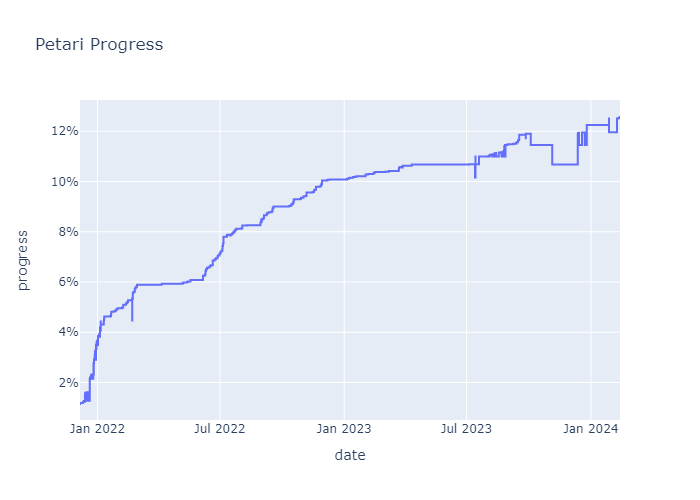
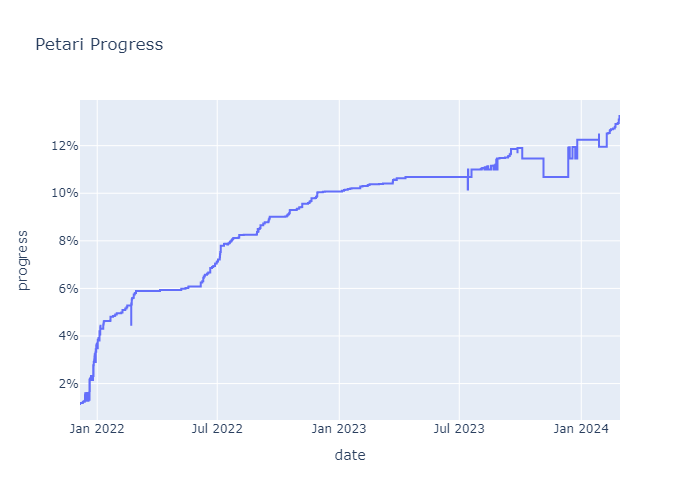
`SkeletalFishGuardHolder.o` 100%

diff --git a/source/Game/Boss/SkeletalFishGuardHolder.cpp b/source/Game/Boss/SkeletalFishGuardHolder.cpp
@@ -1,0 +1,181 @@
+#include "Game/Boss/SkeletalFishGuardHolder.hpp"
+#include "Game/Boss/SkeletalFishBoss.hpp"
+#include "Game/Boss/SkeletalFishBossFunc.hpp"
+#include "Game/Boss/SkeletalFishBossInfo.hpp"
+#include "Game/Boss/SkeletalFishGuard.hpp"
+#include "Game/Boss/SkeletalFishBossRail.hpp"
+
+SkeletalFishGuardHolder::SkeletalFishGuardHolder(SkeletalFishBoss *pBoss, s32 numGuards, const char *pName) : NameObj(pName) {
+    mFishBoss = pBoss;
+    mBossRail = nullptr;
+    mNumGuards = numGuards;
+    mGuards = nullptr;
+    _1C = 0.0f;
+    _20 = 1;
+    createAndInitGuard();
+}
+
+void SkeletalFishGuardHolder::movement() {
+    if (_20) {
+        checkRailChangedAndReset();
+        s32 appearableGuard = countAppearableGuard();
+        if (appearableGuard > 0) {
+            checkDistanceAndAppear(appearableGuard);
+        }
+    }
+}
+
+void SkeletalFishGuardHolder::forceAppearAll() {
+    SkeletalFishGuard* guard;  //
+    SkeletalFishBossInfo::LevelStatus* lvl;
+    s32 guardWaitLvlId;  // r28
+    s32 appearableGuard = countAppearableGuard();  // r27
+    s32 i;  // r26
+
+    for (i = 0; i < mNumGuards; i++) {
+        if (MR::isDead(mGuards[i])) {
+            guardWaitLvlId = mFishBoss->getLevelStatus()->mStatusArray[i].mGuardWaitLevelID;
+            lvl = mFishBoss->getLevelStatus();
+            guard = mGuards[i];
+            guard->_94.set(lvl->mStatusArray[i].mGuardPosLevel);
+            guard->_A0 = guardWaitLvlId;
+            mGuards[i]->appearForce();
+
+            if (--appearableGuard <= 0) {
+                break;
+            }
+        }
+    }
+}
+
+void SkeletalFishGuardHolder::forceKillAll() {
+    for (s32 i = 0; i < mNumGuards; i++) {
+        mGuards[i]->makeActorDead();
+    }
+}
+
+void SkeletalFishGuardHolder::killAll() {
+    for (s32 i = 0; i < mNumGuards; i++) {
+        mGuards[i]->killNaturally();
+    }
+}
+
+void SkeletalFishGuardHolder::notifyAttack(SkeletalFishGuard *pGuard) {
+    for (s32 i = 0; i < mNumGuards; i++) {
+        SkeletalFishGuard* guard = mGuards[i];
+
+        if (guard != pGuard) {
+            guard->waitAttack(120);
+        }
+    }
+}
+
+void SkeletalFishGuardHolder::invalidate() {
+    _20 = 0;
+}
+
+void SkeletalFishGuardHolder::validate() {
+    if (!_20) {
+        _20 = 1;
+        _1C = MR::getRailCoord(mFishBoss->getCurrentBossRail());
+    }
+}
+
+void SkeletalFishGuardHolder::checkRailChangedAndReset() {
+    if (mBossRail != mFishBoss->getCurrentBossRail()) {
+        _1C = MR::getRailCoord(mFishBoss->getCurrentBossRail());
+        mBossRail = (SkeletalFishBossRail*)mFishBoss->getCurrentBossRail();
+    }
+}
+
+s32 SkeletalFishGuardHolder::countAppearableGuard() const {
+    SkeletalFishBossInfo::LevelStatus* lvl = mFishBoss->mBossInfo->getLevelStatus(mFishBoss->_110);
+    s32 guardCount = lvl->mGuardAppearNumLevel - countGuardAlive();
+
+    if (guardCount < 0) {
+        guardCount = 0;
+    }
+
+    return guardCount;
+}
+
+s32 SkeletalFishGuardHolder::countGuardAlive() const {
+    s32 aliveGuard = 0;
+
+    for (s32 i = 0; i < mNumGuards; i++) {
+        if (!MR::isDead(mGuards[i])) {
+            aliveGuard++;
+        }
+    }
+
+    return aliveGuard;
+}
+
+void SkeletalFishGuardHolder::checkDistanceAndAppear(s32 numGuards) {
+    f32 len, v7, v9;
+    
+    f32 guardOffsLvl = mFishBoss->mBossInfo->getLevelStatus(mFishBoss->_110)->mGuardOffsLevel;
+    f32 coord = MR::getRailCoord(mBossRail);
+
+    if (coord < _1C) {
+        coord = coord + MR::getRailTotalLength(mBossRail);
+    }
+
+    for (s32 i = 0; i < MR::getRailPointNum(mBossRail); i++) {
+        if (mBossRail->isFillUpPoint(i)) {
+            v7 = (MR::getRailPointCoord(mBossRail, i) - guardOffsLvl);
+            len = MR::getRailTotalLength(mBossRail);
+            v9 = MR::modAndSubtract(v7, len, 0.0f);
+
+            if (v9 < _1C) {
+                v9 = (v9 + (MR::getRailTotalLength(mBossRail)));
+            }
+
+            if (v9 < coord) {
+                appearGuard(numGuards, i);
+                break;
+            }
+        }
+    }
+
+    _1C = MR::getRailCoord(mBossRail);
+}
+
+void SkeletalFishGuardHolder::appearGuard(s32 numGuards, s32 startGuard) {
+    SkeletalFishGuard* guard;
+    SkeletalFishBossInfo::LevelStatus* level;
+    s32 pos = mBossRail->getFillUpNamePos(startGuard);
+    s32 waitID;
+
+    TVec3f guardPos;
+    if (pos >= 0 && SkeletalFishBossFunc::copyGuardPos(&guardPos, pos)) {
+        for (s32 i = 0; i < mNumGuards; i++) {
+            if (MR::isDead(mGuards[i])) {
+                mGuards[i]->mPosition.set(guardPos);
+                waitID = mFishBoss->getLevelStatus()->mStatusArray[i].mGuardWaitLevelID;
+                level = mFishBoss->getLevelStatus();
+                guard = mGuards[i];
+                guard->_94.set(level->mStatusArray[i].mGuardPosLevel);
+                guard->_A0 = waitID;
+                mGuards[i]->appearNaturally();
+
+                if (--numGuards <= 0) {
+                    break;
+                }
+            }
+        }
+    }
+}
+
+SkeletalFishGuardHolder::~SkeletalFishGuardHolder() {
+
+}
+
+void SkeletalFishGuardHolder::createAndInitGuard() {
+    mGuards = new SkeletalFishGuard*[mNumGuards];
+
+    for (s32 i = 0; i < mNumGuards; i++) {
+        mGuards[i] = new SkeletalFishGuard(mFishBoss, "スカルシャークガード");
+        mGuards[i]->initWithoutIter();
+    }
+}

diff --git a/include/Game/Boss/SkeletalFishBoss.hpp b/include/Game/Boss/SkeletalFishBoss.hpp
@@ -1,5 +1,6 @@
 #pragma once
 
+#include "Game/Boss/SkeletalFishBossInfo.hpp"
 #include "Game/Camera/CameraTargetArg.hpp"
 #include "Game/LiveActor/LiveActor.hpp"
 #include "Game/LiveActor/PartsModel.hpp"
@@ -101,6 +102,10 @@ public:
     void startDeadDemo();
     void endBreakDemo();
     bool isEnableToBeDamaged() const;
+
+    SkeletalFishBossInfo::LevelStatus* getLevelStatus() const {
+        return mBossInfo->getLevelStatus(_110);
+    }
 
     JointController* mControllers[0xD];
     s32* mJointIndicies;                            // _C0

diff --git a/include/Game/Util/MathUtil.hpp b/include/Game/Util/MathUtil.hpp
@@ -245,6 +245,11 @@ namespace MR {
         return a4 + mod;
     }
 
+    inline f32 modAndSubtract_2(f32 a1, f32 a2, f32 a3) {
+        f32 mod = fmod((a3 + (a1 - a2)), a3);
+        return a3 + mod;
+    }
+
     inline f32 add(f32 lhs, f32 rhs) {
         return lhs + rhs;
     }

diff --git a/include/Game/Boss/SkeletalFishGuard.hpp b/include/Game/Boss/SkeletalFishGuard.hpp
@@ -46,9 +46,7 @@ public:
 
     u32 _8C;
     SkeletalFishBoss* mFishBoss;                    // _90
-    f32 _94;
-    f32 _98;
-    f32 _9C;
+    TVec3f _94;
     u32 _A0;
     TVec3f _A4;
     f32 _B0;

diff --git a/docs/lib/Boss/SkeletalFishGuardHolder.md b/docs/lib/Boss/SkeletalFishGuardHolder.md
@@ -5,22 +5,22 @@
 | :white_check_mark: | Function is completed. 
 
 
-# 0 / 15 Completed -- (0.0%)
+# 15 / 15 Completed -- (100.0%)
 # SkeletalFishGuardHolder.o
 | Symbol | Decompiled? |
 | ------------- | ------------- |
-| `__ct__23SkeletalFishGuardHolderFP16SkeletalFishBosslPCc` | :x: |
-| `movement__23SkeletalFishGuardHolderFv` | :x: |
-| `forceAppearAll__23SkeletalFishGuardHolderFv` | :x: |
-| `forceKillAll__23SkeletalFishGuardHolderFv` | :x: |
-| `killAll__23SkeletalFishGuardHolderFv` | :x: |
-| `notifyAttack__23SkeletalFishGuardHolderFP17SkeletalFishGuard` | :x: |
-| `invalidate__23SkeletalFishGuardHolderFv` | :x: |
-| `validate__23SkeletalFishGuardHolderFv` | :x: |
-| `checkRailChangedAndReset__23SkeletalFishGuardHolderFv` | :x: |
-| `countAppearableGuard__23SkeletalFishGuardHolderCFv` | :x: |
-| `countGuardAlive__23SkeletalFishGuardHolderCFv` | :x: |
-| `checkDistanceAndAppear__23SkeletalFishGuardHolderFl` | :x: |
-| `appearGuard__23SkeletalFishGuardHolderFll` | :x: |
-| `__dt__23SkeletalFishGuardHolderFv` | :x: |
-| `createAndInitGuard__23SkeletalFishGuardHolderFv` | :x: |
+| `__ct__23SkeletalFishGuardHolderFP16SkeletalFishBosslPCc` | :white_check_mark: |
+| `movement__23SkeletalFishGuardHolderFv` | :white_check_mark: |
+| `forceAppearAll__23SkeletalFishGuardHolderFv` | :white_check_mark: |
+| `forceKillAll__23SkeletalFishGuardHolderFv` | :white_check_mark: |
+| `killAll__23SkeletalFishGuardHolderFv` | :white_check_mark: |
+| `notifyAttack__23SkeletalFishGuardHolderFP17SkeletalFishGuard` | :white_check_mark: |
+| `invalidate__23SkeletalFishGuardHolderFv` | :white_check_mark: |
+| `validate__23SkeletalFishGuardHolderFv` | :white_check_mark: |
+| `checkRailChangedAndReset__23SkeletalFishGuardHolderFv` | :white_check_mark: |
+| `countAppearableGuard__23SkeletalFishGuardHolderCFv` | :white_check_mark: |
+| `countGuardAlive__23SkeletalFishGuardHolderCFv` | :white_check_mark: |
+| `checkDistanceAndAppear__23SkeletalFishGuardHolderFl` | :white_check_mark: |
+| `appearGuard__23SkeletalFishGuardHolderFll` | :white_check_mark: |
+| `__dt__23SkeletalFishGuardHolderFv` | :white_check_mark: |
+| `createAndInitGuard__23SkeletalFishGuardHolderFv` | :white_check_mark: |

diff --git a/docs/lib/Boss.md b/docs/lib/Boss.md
@@ -138,7 +138,7 @@
 | [SkeletalFishBossRail.o](https://github.com/shibbo/Petari/blob/master/docs/lib/Boss/SkeletalFishBossRail.md) | 100.0% | 9 / 9 | 100.0% | :white_check_mark: 
 | [SkeletalFishBossRailHolder.o](https://github.com/shibbo/Petari/blob/master/docs/lib/Boss/SkeletalFishBossRailHolder.md) | 100.0% | 7 / 7 | 100.0% | :white_check_mark: 
 | [SkeletalFishGuard.o](https://github.com/shibbo/Petari/blob/master/docs/lib/Boss/SkeletalFishGuard.md) | 0.0% | 0 / 62 | 0.0% | :x: 
-| [SkeletalFishGuardHolder.o](https://github.com/shibbo/Petari/blob/master/docs/lib/Boss/SkeletalFishGuardHolder.md) | 0.0% | 0 / 15 | 0.0% | :x: 
+| [SkeletalFishGuardHolder.o](https://github.com/shibbo/Petari/blob/master/docs/lib/Boss/SkeletalFishGuardHolder.md) | 100.0% | 15 / 15 | 100.0% | :white_check_mark: 
 | [SkeletalFishJointCalc.o](https://github.com/shibbo/Petari/blob/master/docs/lib/Boss/SkeletalFishJointCalc.md) | 100.0% | 1 / 1 | 100.0% | :white_check_mark: 
 | [SkeletalFishRailControl.o](https://github.com/shibbo/Petari/blob/master/docs/lib/Boss/SkeletalFishRailControl.md) | 100.0% | 6 / 6 | 100.0% | :white_check_mark: 
 | [TombSpider.o](https://github.com/shibbo/Petari/blob/master/docs/lib/Boss/TombSpider.md) | 0.0% | 0 / 41 | 0.0% | :x: 

diff --git a/docs/PROGRESS.md b/docs/PROGRESS.md
@@ -3,7 +3,7 @@
 | [Animation](https://github.com/shibbo/Petari/blob/master/docs/lib/Animation.md) | 4.860149543062863% |
 | [AreaObj](https://github.com/shibbo/Petari/blob/master/docs/lib/AreaObj.md) | 57.68352365415987% |
 | [AudioLib](https://github.com/shibbo/Petari/blob/master/docs/lib/AudioLib.md) | 0.0% |
-| [Boss](https://github.com/shibbo/Petari/blob/master/docs/lib/Boss.md) | 6.602242702893878% |
+| [Boss](https://github.com/shibbo/Petari/blob/master/docs/lib/Boss.md) | 7.105706617845923% |
 | [Camera](https://github.com/shibbo/Petari/blob/master/docs/lib/Camera.md) | 34.12644987572494% |
 | [Demo](https://github.com/shibbo/Petari/blob/master/docs/lib/Demo.md) | 3.7442572741194486% |
 | [Effect](https://github.com/shibbo/Petari/blob/master/docs/lib/Effect.md) | 1.855215360664245% |
